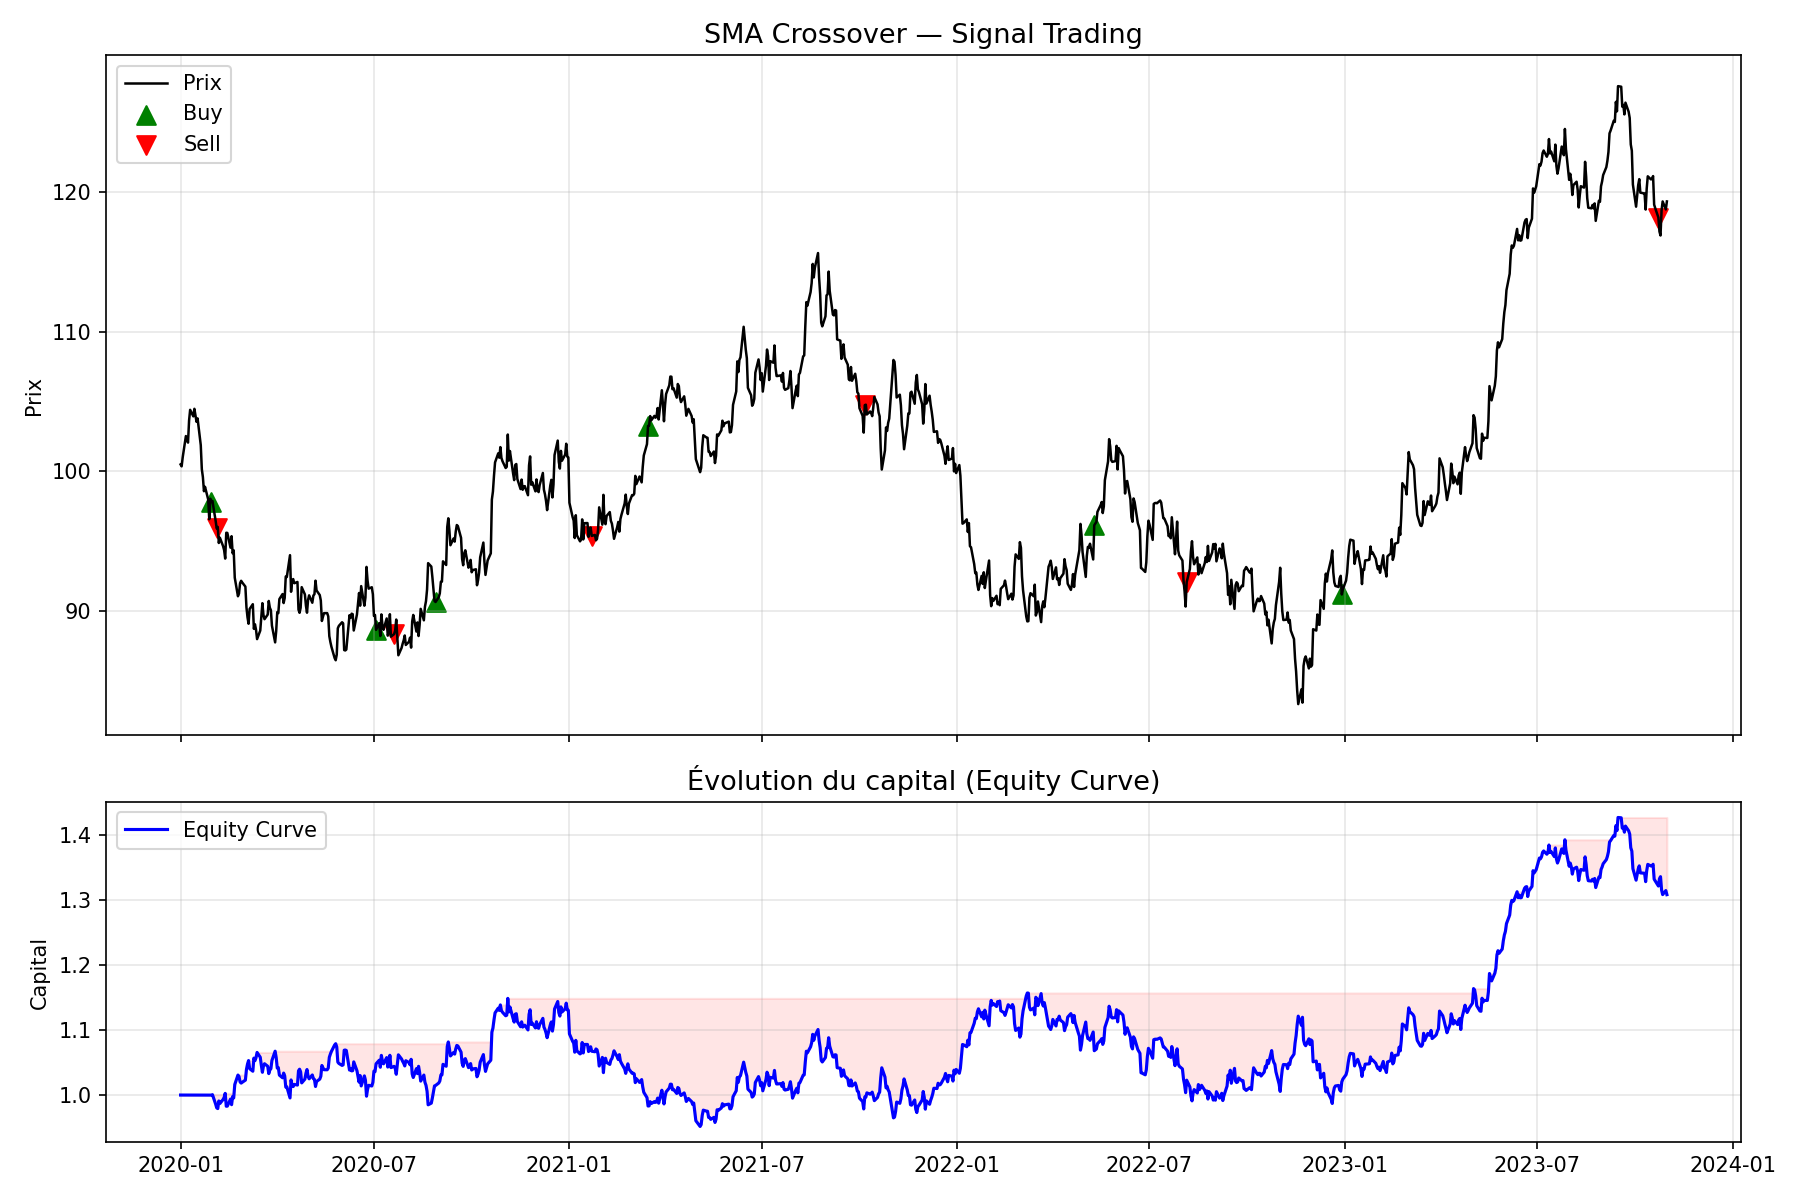
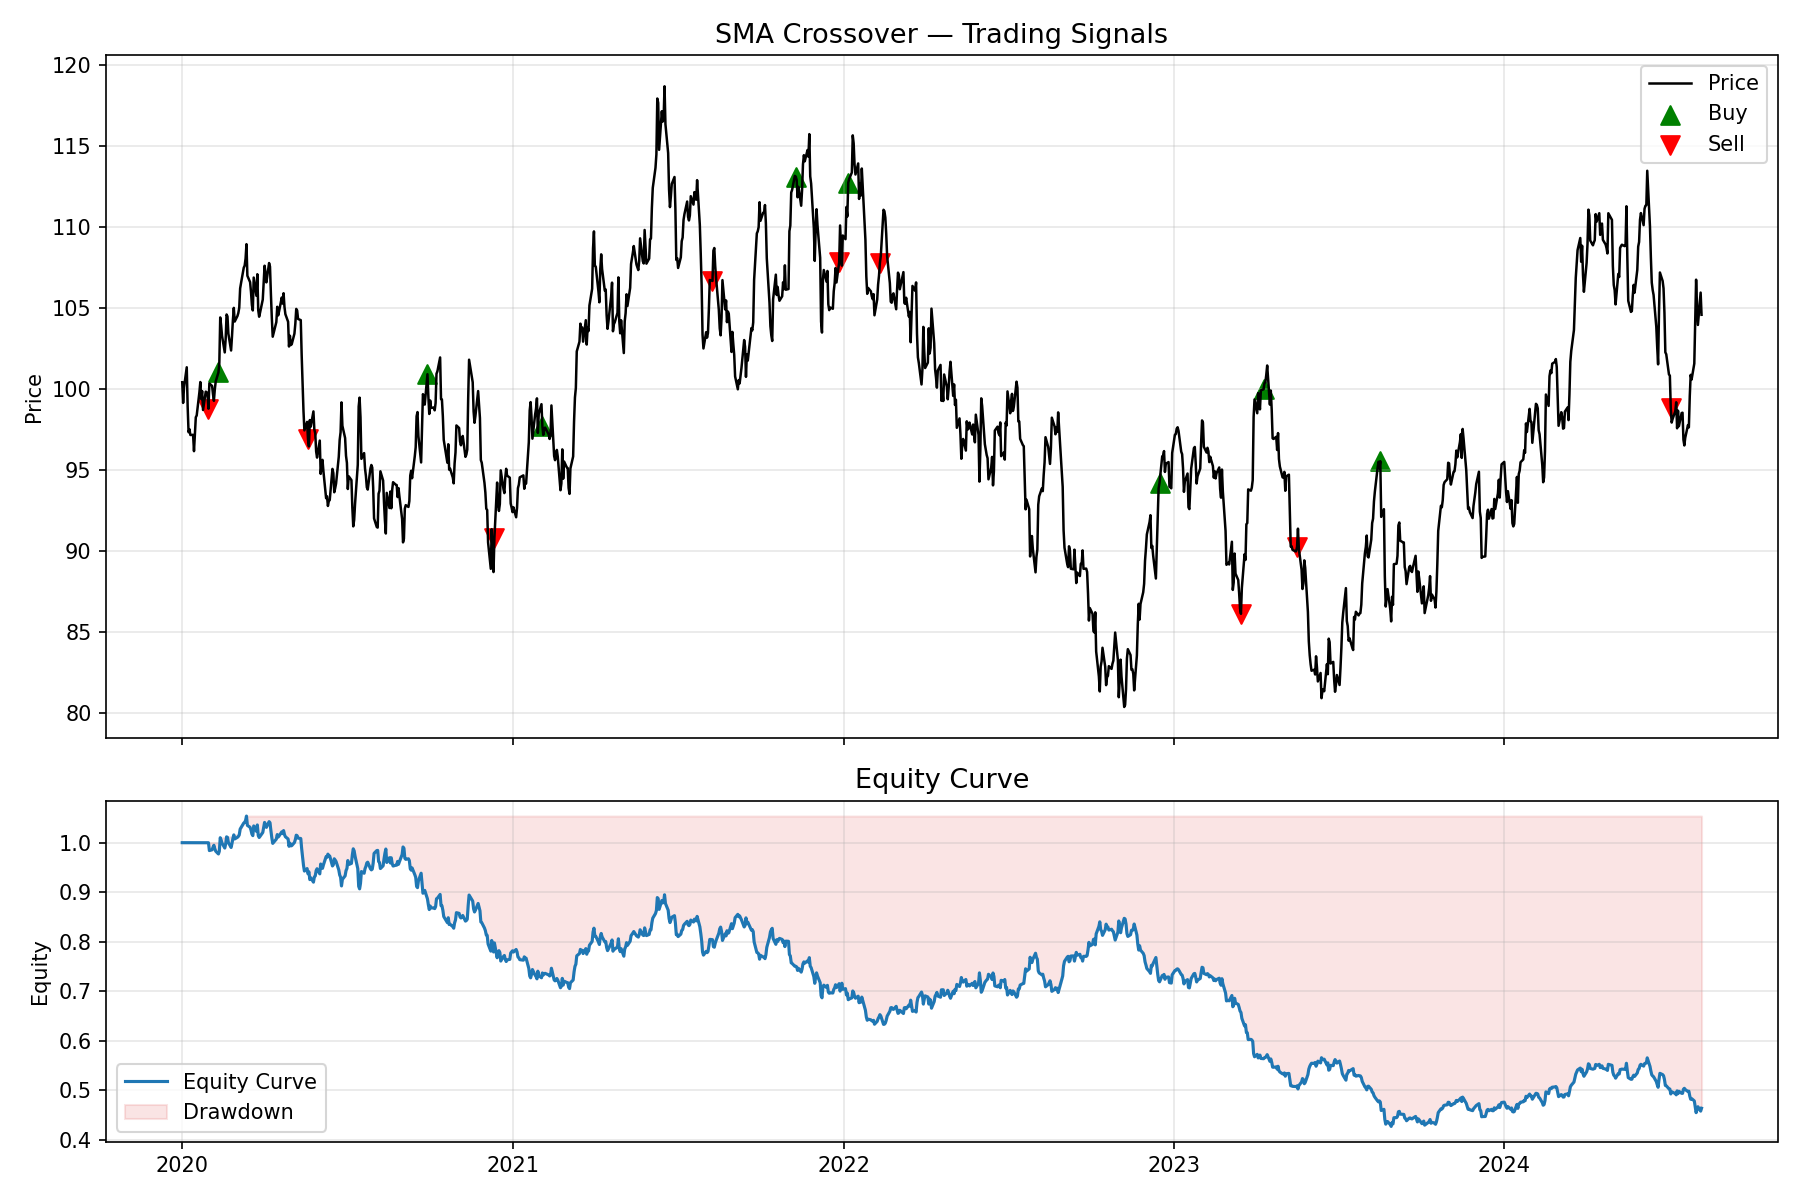
Fix backtest data handling — pass full DataFrame instead of price Series to avoid attribute error

diff --git a/scripts/run_backtest.py b/scripts/run_backtest.py
@@ -2,7 +2,8 @@ import sys
 import os
 import matplotlib.pyplot as plt
 
-# === Importation des modules internes ===
+# === Make package imports work when running this file directly ===
+# (adds the repository root to sys.path)
 sys.path.append(os.path.dirname(os.path.dirname(__file__)))
 
 from utils.data_loader import load_prices
@@ -10,59 +11,89 @@ from backtesting.ma_crossover import sma_crossover_positions
 from backtesting.engine import run_backtest
 
 
-# === Fonction d'affichage du backtest ===
+# ---------- Plotting helpers ----------
 def plot_backtest(df, positions, result):
-    fig, (ax1, ax2) = plt.subplots(2, 1, figsize=(12, 8), sharex=True, gridspec_kw={"height_ratios": [2, 1]})
-    
-    # === 1⃣ Graphique : Prix et signaux ===
-    ax1.plot(df.index, df["price"], label="Prix", color="black", lw=1.2)
-    
-    # Points d'achat / vente
-    buy_signals = positions[(positions.shift(1) <= 0) & (positions > 0)].index
-    sell_signals = positions[(positions.shift(1) >= 0) & (positions < 0)].index
-    ax1.scatter(buy_signals, df.loc[buy_signals, "price"], color="green", marker="^", label="Buy", s=80)
-    ax1.scatter(sell_signals, df.loc[sell_signals, "price"], color="red", marker="v", label="Sell", s=80)
-    
-    ax1.set_title("SMA Crossover — Signal Trading", fontsize=13)
-    ax1.set_ylabel("Prix")
+    """
+    Two-panel plot:
+      1) Price with buy/sell markers from the SMA crossover signals
+      2) Equity curve with drawdown shading
+    """
+    fig, (ax1, ax2) = plt.subplots(
+        2, 1, figsize=(12, 8), sharex=True, gridspec_kw={"height_ratios": [2, 1]}
+    )
+
+    # 1) Price + signals
+    ax1.plot(df.index, df["price"], label="Price", color="black", lw=1.2)
+
+    # Buy when position goes from <= 0 to > 0; sell when it goes from >= 0 to < 0
+    buy_idx = positions[(positions.shift(1) <= 0) & (positions > 0)].index
+    sell_idx = positions[(positions.shift(1) >= 0) & (positions < 0)].index
+    ax1.scatter(buy_idx, df.loc[buy_idx, "price"], color="green", marker="^", s=80, label="Buy")
+    ax1.scatter(sell_idx, df.loc[sell_idx, "price"], color="red", marker="v", s=80, label="Sell")
+
+    ax1.set_title("SMA Crossover — Trading Signals", fontsize=13)
+    ax1.set_ylabel("Price")
     ax1.legend()
     ax1.grid(alpha=0.3)
 
-    # === 2⃣ Graphique : Courbe d'équité ===
-    ax2.plot(result.equity.index, result.equity, color="blue", lw=1.5, label="Equity Curve")
-    ax2.fill_between(result.equity.index, result.equity, result.equity.cummax(), color="red", alpha=0.1)
-    ax2.set_title("Évolution du capital (Equity Curve)", fontsize=13)
-    ax2.set_ylabel("Capital")
+    # 2) Equity curve + drawdown (shade vs running max)
+    equity = result.equity
+    ax2.plot(equity.index, equity, color="tab:blue", lw=1.5, label="Equity Curve")
+    ax2.fill_between(equity.index, equity, equity.cummax(), color="tab:red", alpha=0.12, label="Drawdown")
+    ax2.set_title("Equity Curve", fontsize=13)
+    ax2.set_ylabel("Equity")
     ax2.legend()
     ax2.grid(alpha=0.3)
 
     plt.tight_layout()
 
-    # Sauvegarde automatique du graphique
+    # Save figure next to /data
     save_path = os.path.join(os.path.dirname(os.path.dirname(__file__)), "data", "backtest_plot.png")
-    plt.savefig(save_path, dpi=150)
-    print(f"\n📊 Graphique sauvegardé dans : {save_path}\n")
+    try:
+        plt.savefig(save_path, dpi=150)
+        print(f"\n📊 Plot saved to: {save_path}\n")
+    except Exception as e:
+        print(f"[WARN] Could not save plot: {e}")
 
     plt.show()
 
 
-# === Fonction principale ===
+# ---------- Main script ----------
 def main():
-    df = load_prices()
+    # Load prices (utils/data_loader.py will fallback to synthetic if file not found)
+    df = load_prices()  # dataframe with a 'price' column and a datetime-like index
 
-    positions = sma_crossover_positions(df["price"], short_window=20, long_window=100)
-    result = run_backtest(df["price"], positions, trans_cost_bps=1.0)
+    # Build SMA crossover positions (+1 / 0 / -1)
+    positions = sma_crossover_positions(
+        df["price"],
+        short=20,
+        long=100,
+    )
 
-    print("\n===== Résultats du Backtest =====")
+    # Run backtest (IMPORTANT: use total_bps to match engine.py)
+    result = run_backtest(
+        df,
+        positions,
+        total_bps=1.0,       # transaction cost in basis points per turnover
+        # initial_capital=1.0 # uncomment if your engine supports/needs it
+    )
+
+    # Print metrics
+    print("\n===== Backtest Results =====")
     for k, v in result.metrics.items():
-        print(f"{k:25s}: {v:.4f}")
+        try:
+            print(f"{k:25s}: {v:.4f}")
+        except Exception:
+            print(f"{k:25s}: {v}")
 
-    print("\n📈 Equity finale :", round(result.equity.iloc[-1], 2))
+    # Final equity (also visible in result.equity.iloc[-1])
+    print("\n📈 Final equity:", round(result.equity.iloc[-1], 4))
 
-    # Visualisation
+    # Plot
     plot_backtest(df, positions, result)
 
 
-# === Point d'entrée ===
+# Entry point
 if __name__ == "__main__":
     main()
+
